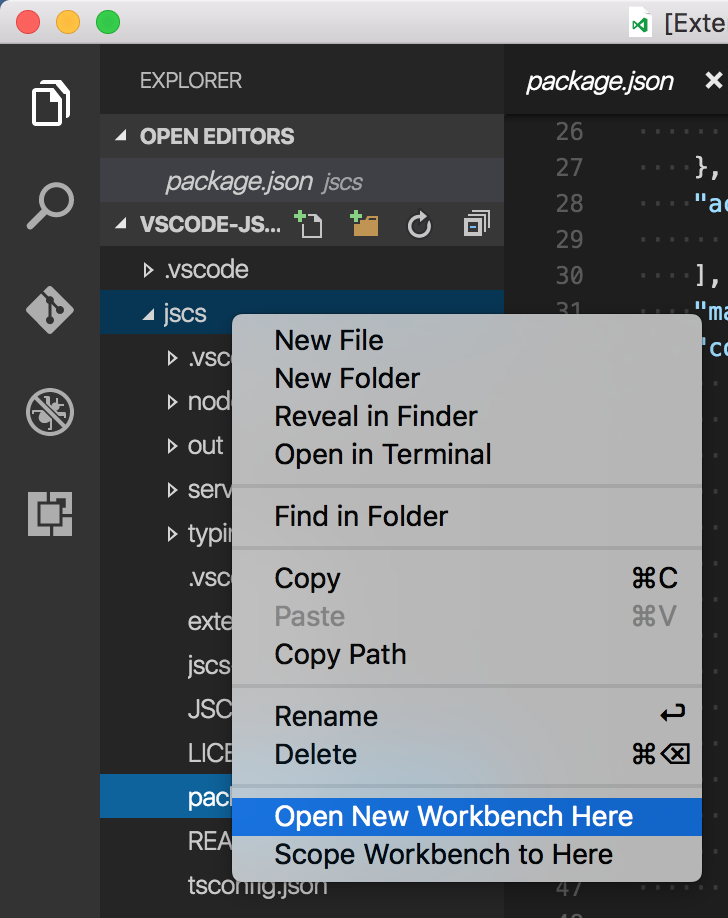
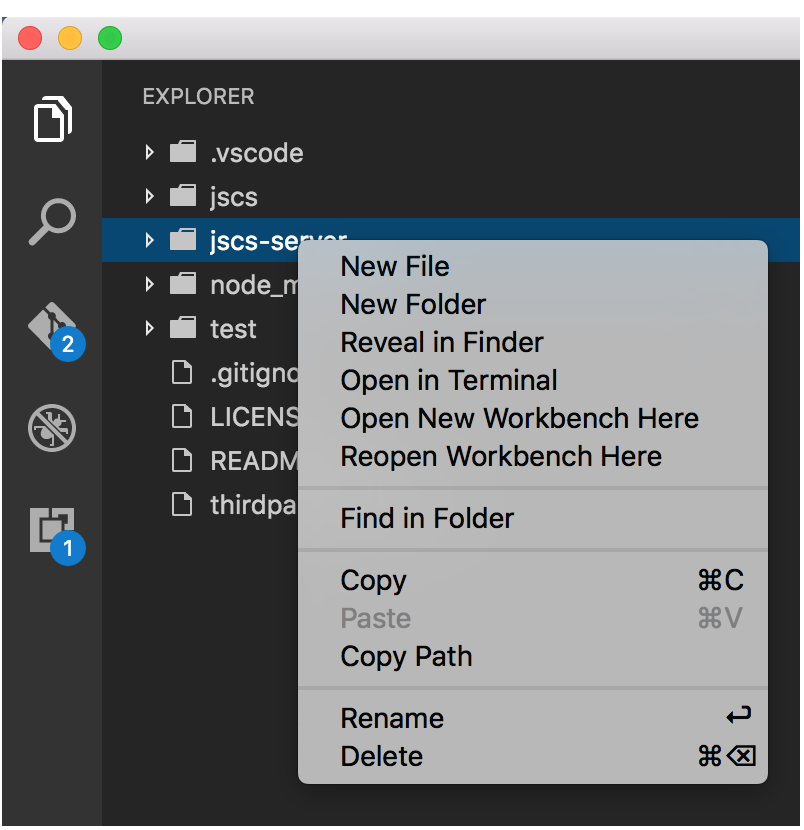
update readme and image

diff --git a/README.md b/README.md
@@ -5,13 +5,19 @@
 This extension adds two new context menus to the Explorer Viewlet:
 
 * **Open New Workbench Here**: Opens a new instance of VS Code scoped to the selected folder OR to the folder containing the selected file.
-* **Scope Workbench to Here**: Reopens VS Code scoped to the selected folder. This feature only works on folders, it has no effect when a file is selected.
+* **Reopen Workbench Here**: Reopens VS Code scoped to the selected folder. This feature only works on folders, it has no effect when a file is selected.
 
 ## Using
 
-Right click on a folder or file in the Explorer, choose **Open New Workbench Here** or **Scope Workbench to Here**.
+Right click on a folder or file in the Explorer, choose **Open New Workbench Here** or **Reopen Workbench Here**.
 
 ![Preview](images/preview.png)
+
+## Changelog
+
+### 0.0.2
+* Move commands to navigation section, fixes [Issue 1](https://github.com/chrisdias/vscode-opennewinstance/issues/1)
+* Change command "Scope Workbench to Here" to "Reopen Workbench Here"
 
 ## License
 
